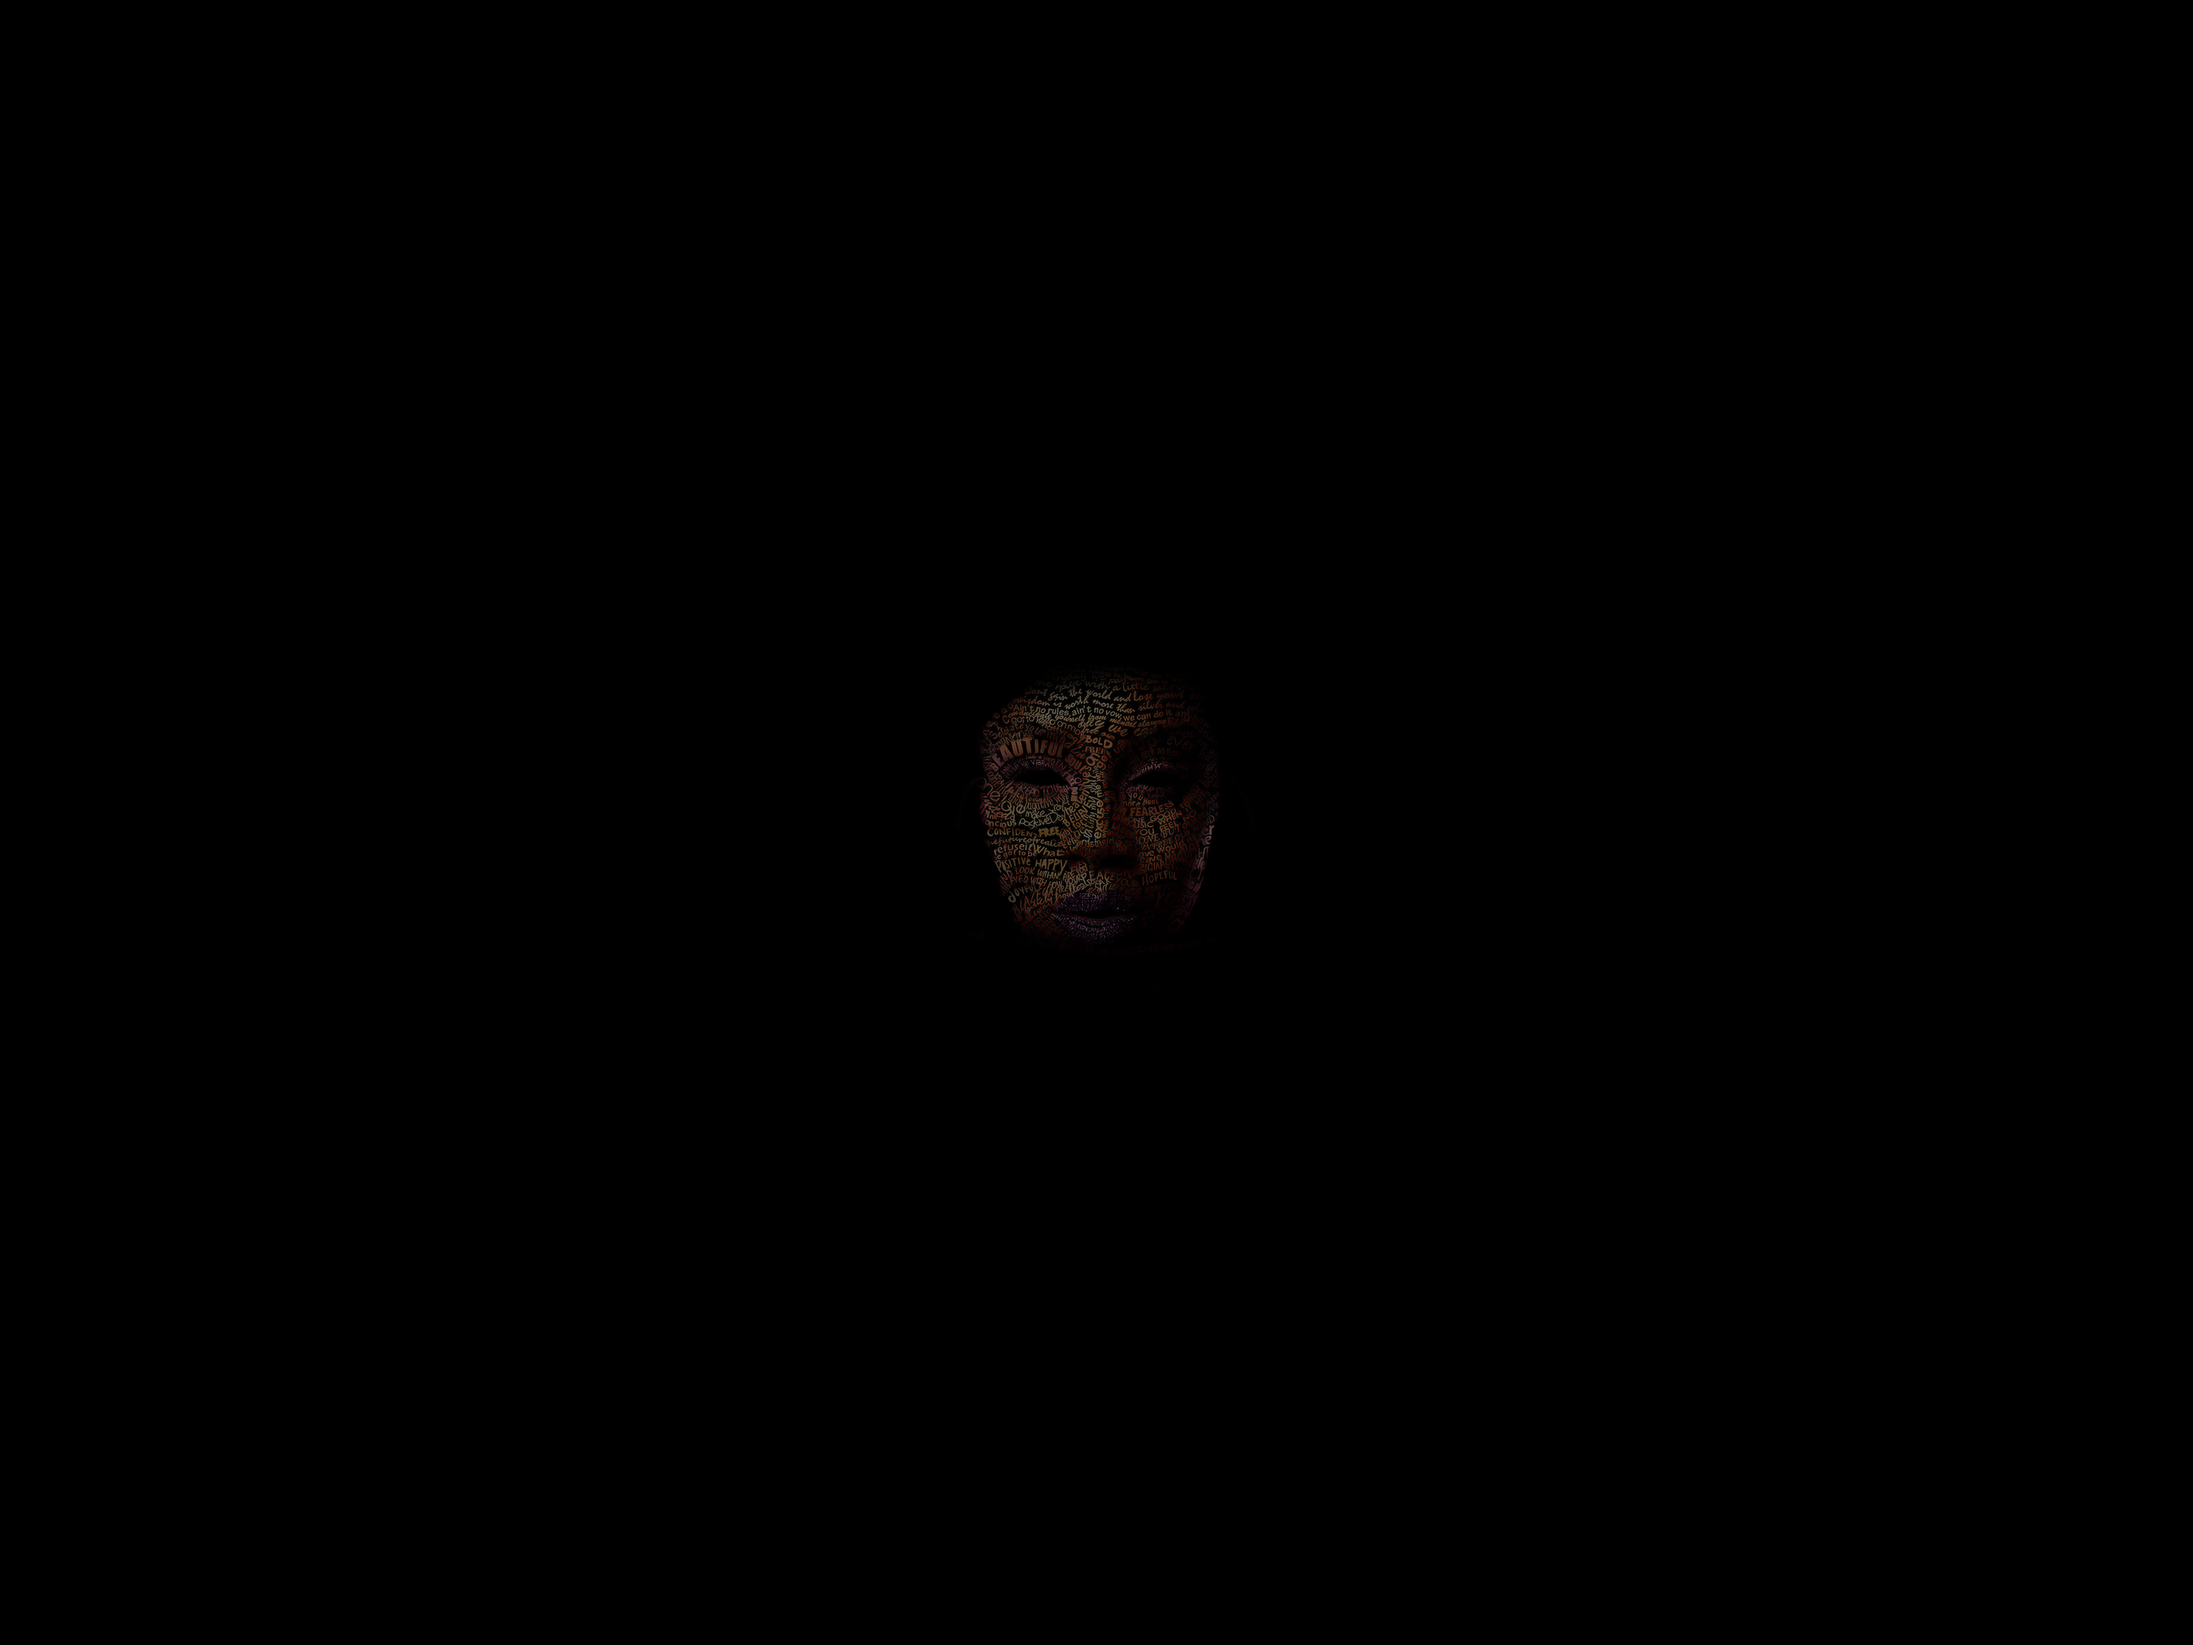
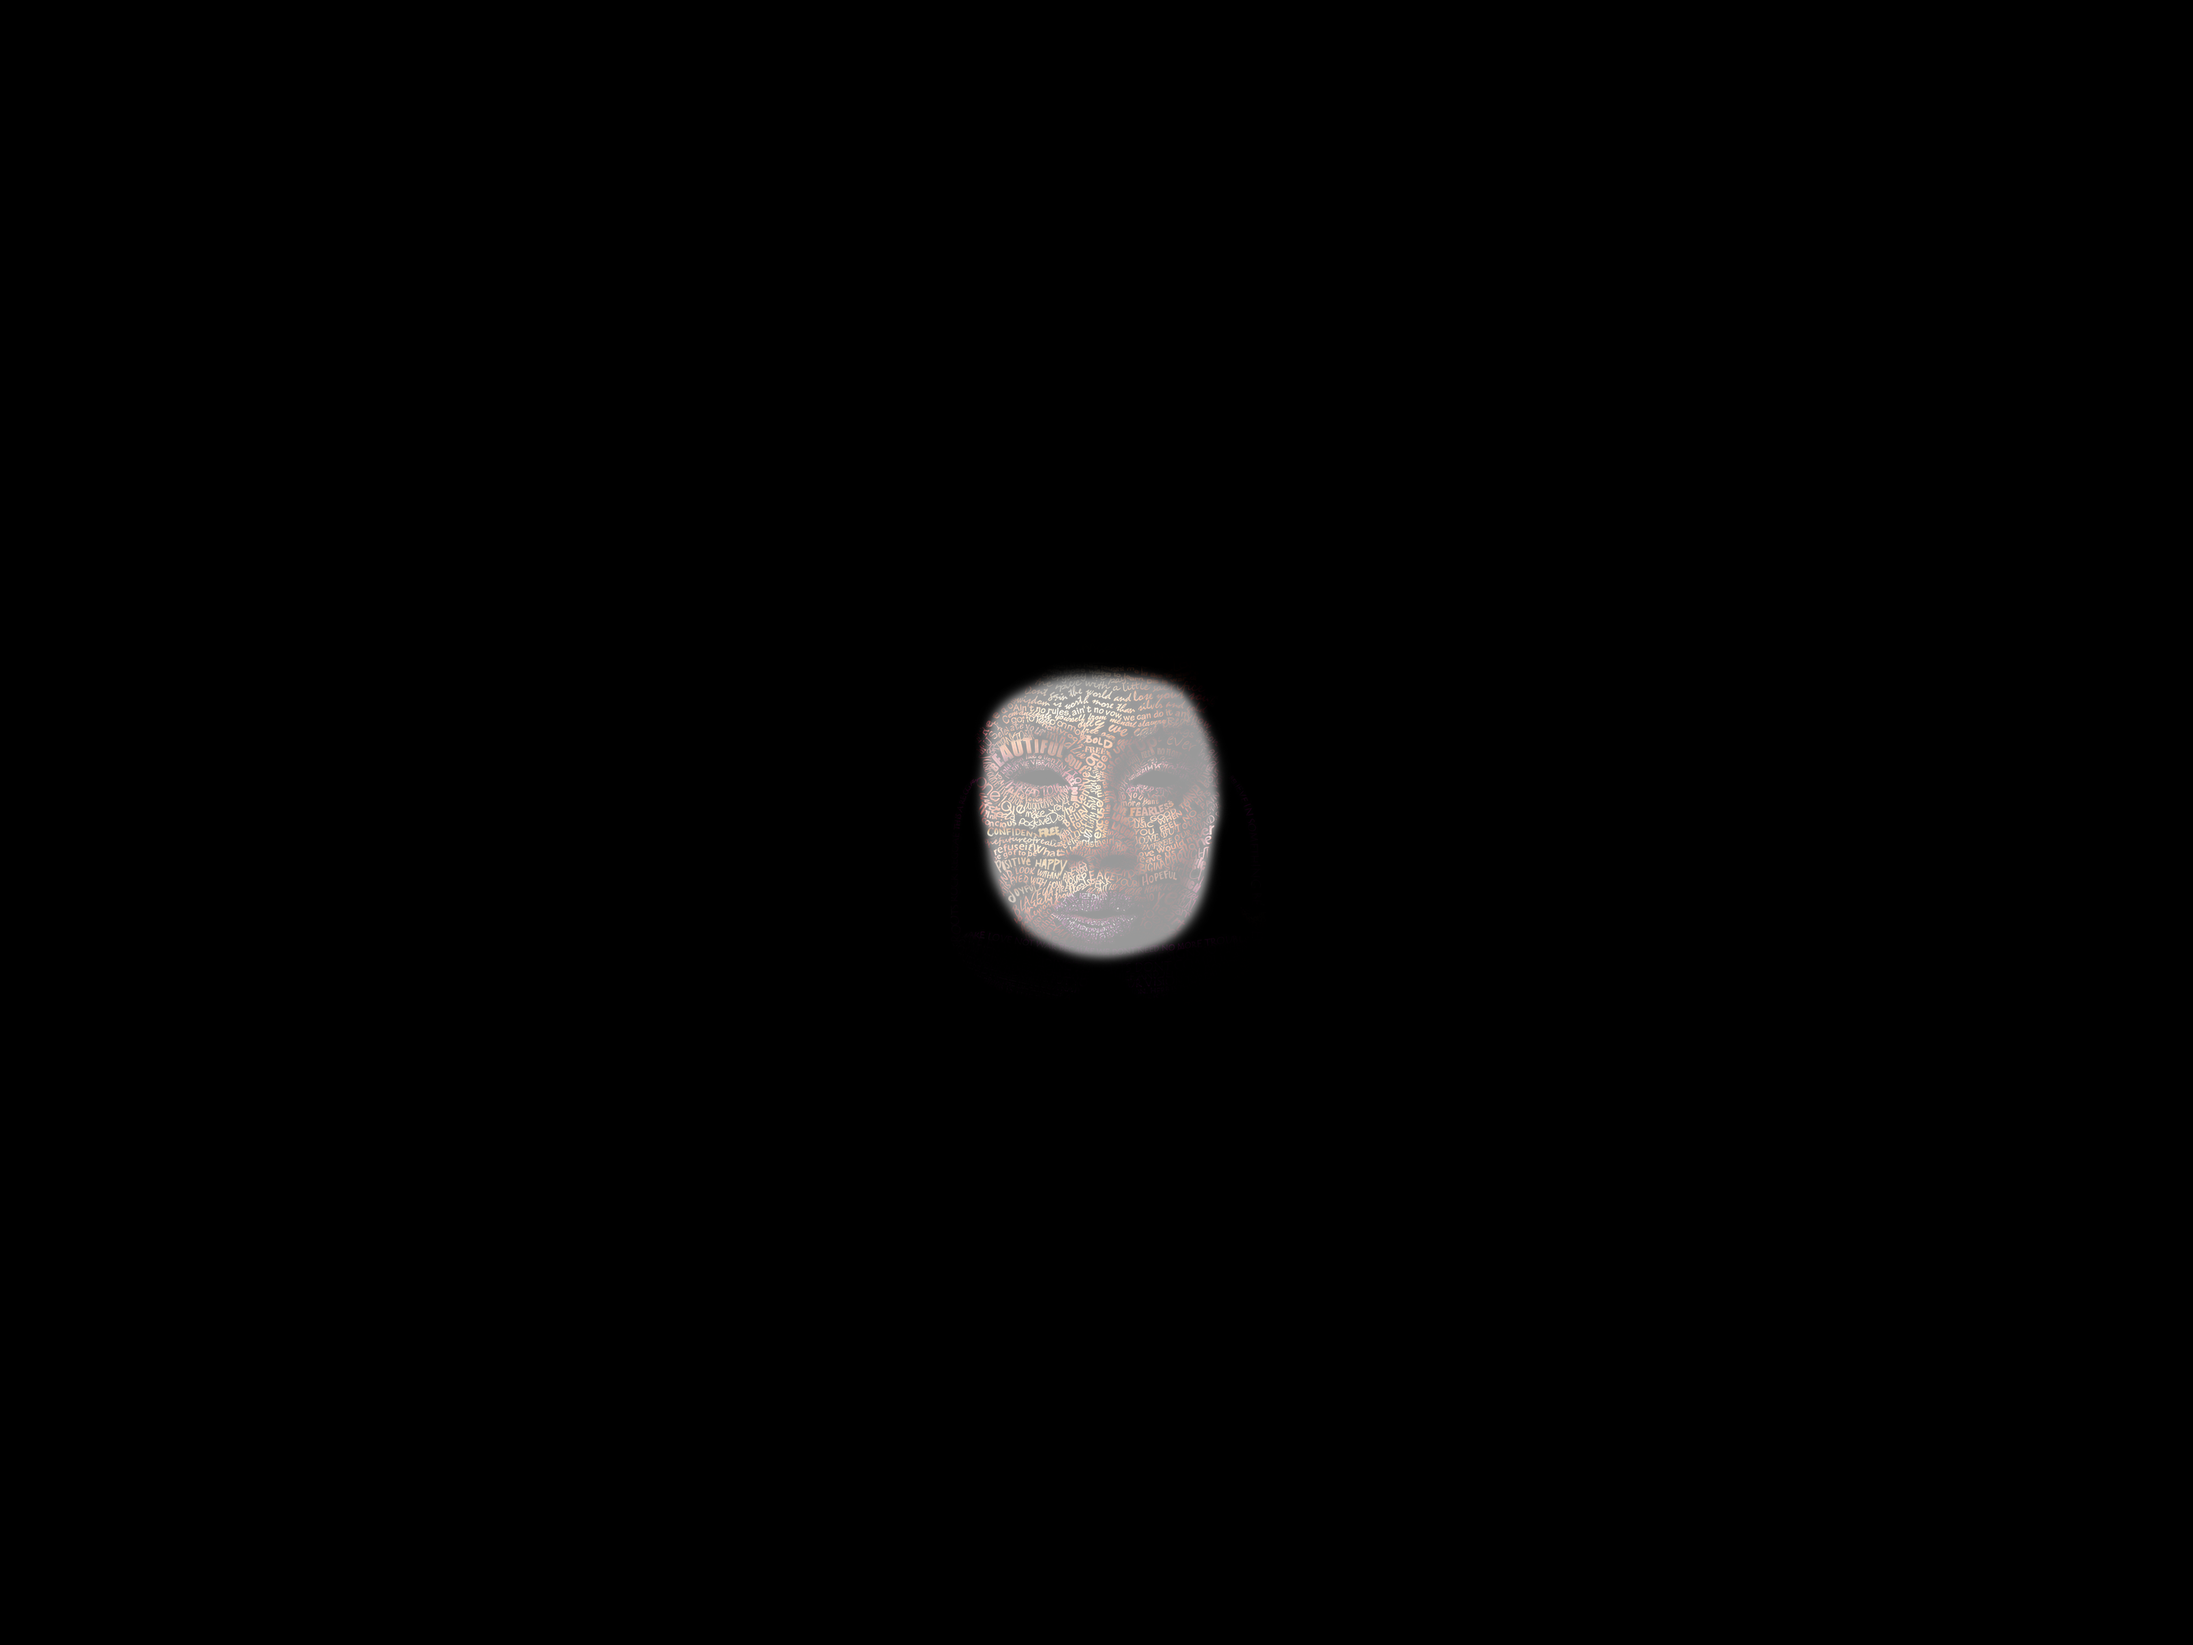
Final build for pitch

Changed region(s): [[0.4375, 0.4062, 0.5625, 0.5938]]

diff --git a/faceoverlay/ViewController.m b/faceoverlay/ViewController.m
@@ -18,9 +18,7 @@
 
 
 @interface ViewController () {
-	NSArray *photos;
 
-	NSInteger photoIndex;
 	UIImage *currentPhoto;
 }
 
@@ -34,25 +32,6 @@
 @synthesize photo;
 @synthesize overlay;
 
-//*********************************
-- (void)viewDidLoad {
-	[super viewDidLoad];
-
-	photos = @[[[NSBundle mainBundle] URLForResource: @"bryan" withExtension: @"jpg"],
-			   [[NSBundle mainBundle] URLForResource: @"dan" withExtension: @"jpg"],
-			   [[NSBundle mainBundle] URLForResource: @"shaun" withExtension: @"jpg"],
-			   [[NSBundle mainBundle] URLForResource: @"michael" withExtension: @"jpg"],
-			   [[NSBundle mainBundle] URLForResource: @"alan" withExtension: @"jpg"],
-			   [[NSBundle mainBundle] URLForResource: @"anna" withExtension: @"jpg"]];
-}
-
-//*********************************
-- (void)viewWillAppear:(BOOL)animated {
-	[super viewWillAppear: animated];
-
-	currentPhoto = [UIImage imageWithData: [NSData dataWithContentsOfURL: [photos firstObject]]];
-//	[self setupFaceDetector];
-}
 
 //*********************************
 - (IBAction)takePhoto:(UIButton *)sender {
@@ -105,7 +84,7 @@
 		CGFloat heightRatio = uiPhotoHeight/ciPhotoHeight;
 
 		CGFloat overlayFaceHeight = 536;
-		CGFloat overlayFaceWidth = 446;
+		CGFloat overlayFaceWidth = 540;
 
 
 
@@ -139,6 +118,8 @@
 //		[leftEye setBackgroundColor: [UIColor redColor]];
 //		[leftEye setCenter: CGPointMake([self fixCoordinate: le.x forDimension: ciPhotoWidth] * widthRatio, le.y * heightRatio)];
 //		[[self view] addSubview: leftEye];
+	} else {
+		NSLog(@"No face detected");
 	}
 }
 
